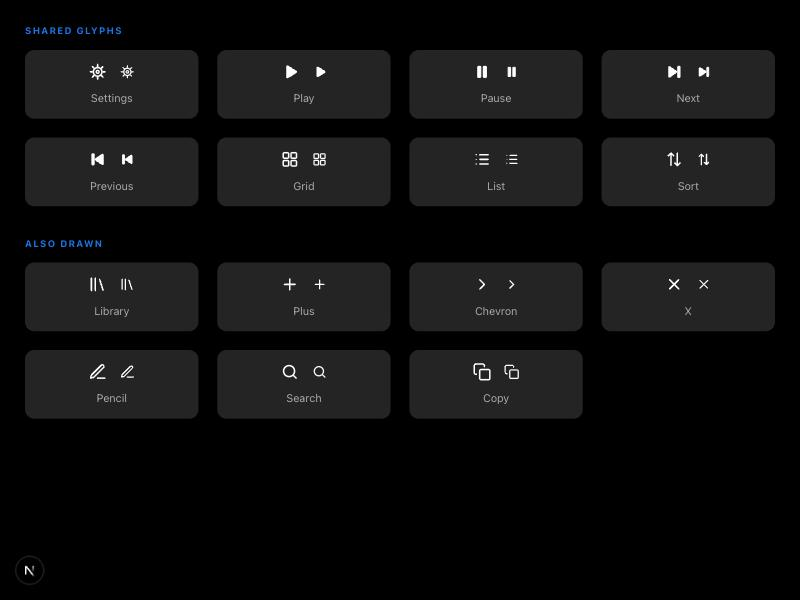
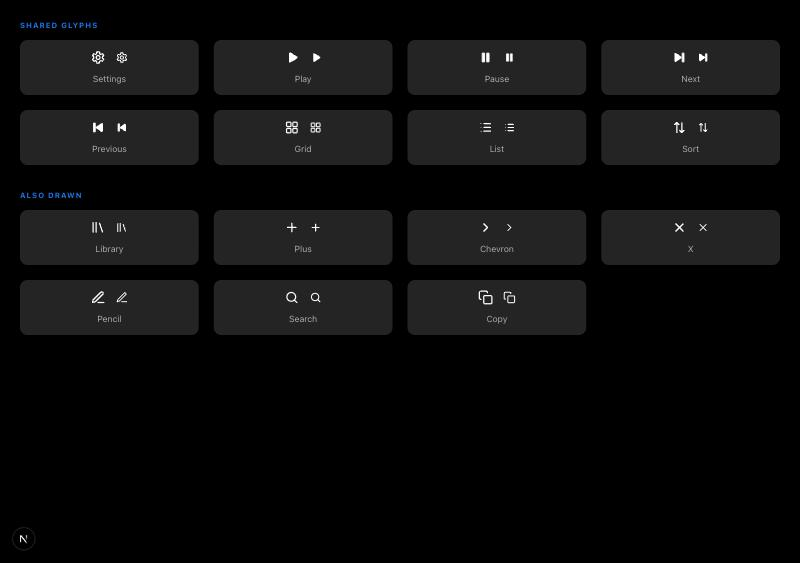
iOS + web: a toothed cog for Settings, clamp the drawn toggle glyphs, adopt the set in Stats and the share sheet (#412)
Codex round 1: the circle-and-rays gear read as a sun, so Settings is now
one toothed outline with a centre hole on both apps. The Library's drawn
toggle glyphs are clamped to the 35 pt cap instead of cap + 3. Stats' list /
grid switch and its gallery twin use Icon/List and Icon/Grid; IconTile draws
a LocallyIcon when its symbol names one, so the share sheet's Open Settings
row shows the cog. The signed-out share gallery frame gets a no-op settings
action so that row renders for screenshots.

diff --git a/apps/ios/Locally/Views/Library/LibraryView.swift b/apps/ios/Locally/Views/Library/LibraryView.swift
@@ -44,6 +44,8 @@ struct LibraryView: View {
     @ScaledMetric(relativeTo: .body) private var scaledToggleButtonSize = Theme.Library.toggleButtonSize
     @ScaledMetric(relativeTo: .subheadline) private var sectionChevronSize = Theme.Library.sectionChevronSize
     private var toggleIconSize: CGFloat { min(scaledToggleIconSize, Theme.Library.toggleIconMaxSize) }
+    /// The hand-drawn glyphs sit a little smaller in their box than SF Symbols, so they get 3 pt more, still under the 35 pt cap.
+    private var drawnToggleIconSize: CGFloat { min(toggleIconSize + 3, Theme.Library.toggleIconMaxSize) }
     private var toggleButtonSize: CGFloat { min(scaledToggleButtonSize, Theme.Library.toggleButtonMaxSize) }
     @Environment(SyncStatus.self) private var syncStatus
     /// The "From your devices" tray (#269): open or closed.
@@ -540,7 +542,7 @@ struct LibraryView: View {
             }
         } label: {
             let side = max(toggleButtonSize, Theme.Spacing.minTarget)
-            LocallyIcon(.sort, size: toggleIconSize + 3, scaled: false)
+            LocallyIcon(.sort, size: drawnToggleIconSize, scaled: false)
                 .foregroundStyle(Theme.primaryText)
                 .frame(width: side, height: side)
                 .contentShape(Rectangle())
@@ -551,7 +553,7 @@ struct LibraryView: View {
     /// The hand-drawn glyph variant (#213, #412).
     private func layoutButton(_ value: LibraryLayout, icon: LocallyIcon.Name, label: String) -> some View {
         layoutButton(value, label: label) {
-            LocallyIcon(icon, size: toggleIconSize + 3, scaled: false)
+            LocallyIcon(icon, size: drawnToggleIconSize, scaled: false)
         }
     }
 

diff --git a/apps/ios/Locally/Views/Components/ComponentGallery.swift b/apps/ios/Locally/Views/Components/ComponentGallery.swift
@@ -1132,7 +1132,7 @@ private struct ControlsGallery: View {
                     KindSwitch(kind: $single)
                     KindSwitch(kind: $album)
                     SlimSwitch(
-                        options: [(value: StatsLayout.list, icon: "list.bullet", label: Copy.Stats.listLayout), (.grid, "square.grid.2x2", Copy.Stats.gridLayout)],
+                        options: [(value: StatsLayout.list, icon: "Icon/List", label: Copy.Stats.listLayout), (.grid, "Icon/Grid", Copy.Stats.gridLayout)],
                         selection: $layout, compact: true
                     )
                     CoverSizeSlider(selection: $size)
@@ -1325,7 +1325,10 @@ enum ShareGallery {
         if result {
             model.outcome = ShareOutcome(sharedCount: 2, notOnLocally: ["new.friend@example.com"], link: "https://locally-sync-api.vercel.app/s/4f9c2b7e1a8d")
         }
-        return ShareSheet(model: model, onClose: {}).preferredColorScheme(.dark)
+        // The signed-out frame gets a no-op settings action so its "Open Settings" row renders (#412).
+        return ShareSheet(model: model, onClose: {})
+            .environment(\.openSettingsTab, signedOut ? {} : nil)
+            .preferredColorScheme(.dark)
     }
 
     @MainActor

diff --git a/apps/ios/Locally/Views/Settings/GlassSection.swift b/apps/ios/Locally/Views/Settings/GlassSection.swift
@@ -122,11 +122,22 @@ struct IconTile: View {
             ))
             .frame(width: side, height: side)
             .overlay(
-                Image(systemName: symbol)
-                    .font(.system(size: side * 0.50, weight: .semibold))
+                glyph
                     .foregroundStyle(tint)
             )
             .accessibilityHidden(true)
+    }
+
+    /// The drawn glyph when `symbol` names one (`Icon/…`), else the SF Symbol. `side` is already
+    /// scaled with text, so the drawn glyph is not scaled again.
+    @ViewBuilder
+    private var glyph: some View {
+        if let mac = LocallyIcon.Name(rawValue: symbol) {
+            LocallyIcon(mac, size: side * 0.50, scaled: false)
+        } else {
+            Image(systemName: symbol)
+                .font(.system(size: side * 0.50, weight: .semibold))
+        }
     }
 }
 

diff --git a/apps/web/src/components/Icons.tsx b/apps/web/src/components/Icons.tsx
@@ -204,13 +204,12 @@ export function LibraryIcon(props: SVGProps<SVGSVGElement>) {
   );
 }
 
-/** Settings: a drawn gear, the same drawing as the iPhone's tab (#412). */
+/** Settings: a drawn cog, a toothed outline with a centre hole, the same drawing as the iPhone's tab (#412). */
 export function SettingsIcon(props: SVGProps<SVGSVGElement>) {
   return (
     <IconBase {...props}>
-      <circle cx="12" cy="12" r="5.5" />
-      <circle cx="12" cy="12" r="1.75" />
-      <path d="M12 2.5v2.75M12 18.75v2.75M2.5 12h2.75M18.75 12h2.75M5.28 5.28l1.95 1.95M16.77 16.77l1.95 1.95M5.28 18.72l1.95-1.95M16.77 7.23l1.95-1.95" />
+      <path d="M10 3h4l.5 3 2 1 2.5-1 2 3-2 2v2l2 2-2 3-2.5-1-2 1-.5 3h-4l-.5-3-2-1-2.5 1-2-3 2-2v-2l-2-2 2-3 2.5 1 2-1Z" />
+      <circle cx="12" cy="12" r="3" />
     </IconBase>
   );
 }

diff --git a/apps/ios/Locally/Views/Stats/StatsView.swift b/apps/ios/Locally/Views/Stats/StatsView.swift
@@ -489,7 +489,7 @@ struct StatsView: View {
 
     private var layoutPill: some View {
         SlimSwitch(
-            options: [(value: StatsLayout.list, icon: "list.bullet", label: Copy.Stats.listLayout), (.grid, "square.grid.2x2", Copy.Stats.gridLayout)],
+            options: [(value: StatsLayout.list, icon: "Icon/List", label: Copy.Stats.listLayout), (.grid, "Icon/Grid", Copy.Stats.gridLayout)],
             selection: Binding(get: { model.layout }, set: { model.selectLayout($0) }),
             compact: true, overflow: .stack
         )

diff --git a/apps/ios/Locally/Views/Library/ShareSheet.swift b/apps/ios/Locally/Views/Library/ShareSheet.swift
@@ -138,7 +138,7 @@ struct ShareSheet: View {
                         onClose()
                         openSettingsTab()
                     } label: {
-                        GlassRow(symbol: "gearshape.fill", tint: Theme.Tint.slate, title: Copy.Share.openSettings, chevron: true)
+                        GlassRow(symbol: "Icon/Settings", tint: Theme.Tint.slate, title: Copy.Share.openSettings, chevron: true)
                     }
                     .buttonStyle(SoftPressStyle())
                 }

diff --git a/STATUS.md b/STATUS.md
@@ -28,7 +28,7 @@ Mac library work (#7); the Sep 27 security backlog (#12) is closed on both apps.
 - Sidebar (#154, replaces #116): a slim 64px rail is always there (the menu button at the top, then Library, Import with the fan-spin plus, a divider; at the foot Settings and the profile, a 32px circle with the email's first letter or a person glyph, which opens Settings at its account and sync section) over the library colour space; hovering or keyboard-focusing its top part, the menu button through Stats (not Settings, the profile or the empty rail between; Open on hover, on by default), blooms a glass panel out of its right edge, and a hover-opened panel hides 300 ms after the pointer leaves; the menu button opens it on click either way and a click-opened panel is sticky: it stays when the pointer leaves and closes only on a second click of the menu button, Escape (which returns focus to the button) or choosing a page, never on a click outside (with Open on hover off, hovering never opens it and leaving never closes it); choosing a page, on the rail or in the panel, closes an unpinned panel at once and keeps focus on that page's rail icon, and hovering cannot reopen it until the pointer has left the sidebar and come back; Pin down docks it as a column that slides the pane over, and a docked panel stays when a page is chosen; Pinned, Open on hover and the chosen widgets are remembered in localStorage. The panel has the Pin down and Open on hover controls at the top, rows for Library (with the release count) and Import, then a heading that follows the period ("Today", "Your week", "Your month") with Edit widgets and a Today / This week / This month control (default This week, remembered in localStorage): Top tracks, Top albums and Top artists (top three each, #1 larger with its cover) and an optional Stats shelf (three record sleeves, off by default), at least one on, and at the bottom the Settings row and the profile row ("On this Mac", the signed-in email, or Demo in the demo). The numbers are this Mac's plays in the chosen period (#203), from one local request per panel open per period, `GET /api/plays/summary` (it reads `plays.json` and the library list, and when signed in also the sync service's `GET /v1/plays/summary` for other devices, kept 60 s, backing off 10 minutes after a 429 or 404 and falling back to this Mac alone on any error (#202); the periods are the Mac's local days computed on the client in `src/lib/play-periods.ts`: Today is today, This week runs from the locale's first day of the week to today (Monday where the browser cannot say), This month from the 1st; each period's answer is reused for a minute and retried once on the next open after a failure; a showing panel reads again at local midnight, and when the window regains focus after a minute, and never shows an earlier day's plays as today's; the week follows the browser language's first day, not the macOS first-day setting), ranked on the client in `src/lib/play-stats.ts`. All time is not in the sidebar (the Stats page will have it); the summary's `allTime` only tells an empty period from no plays at all. Other devices' plays are in them when signed in (#202). A period with no plays but earlier ones says "No plays yet this week." (plays counted before #200 have no day, so they only count in all time); with no plays at all (counting off, or the demo) a quiet line points to Settings; a failed read says "Couldn't load your plays". The Stats rail icon, row and "See all stats" are on (`HAS_STATS_PAGE` in `src/components/sidebar/flags.ts`) and open the Stats page; the shelf is the shared `SleeveFan`. The old Singles and Albums lists in the sidebar are gone; the library page has them
 - Stats page (#145, `docs/design.md`, PR #192): the "Stats" view from the sidebar. Heading, digest sentence, period control (Today, This week, This month, This year, All time) with a ‹ › stepper back through weeks, months, days and (within the 400 days the Mac keeps) years, a "Counted on this Mac since …" line (the summary's new `countingSince`; "Collected across all your devices." when other devices' plays are in, since `countingSince` is only this Mac's; "Play counting is off" when it is), Tracks / Albums / Artists, a five-sleeve fan (re-balances for fewer; hover, focus, Enter, Space and click open the release, an artist opens their artist page (#288); on touch tap once to lift, twice to open), then the full ranking as a List or a Grid (the sorted sea, columns from the room, tiles at least 72px), all on this Mac's plays from one `GET /api/plays/summary` per period and step (kept 60 s). The #1 cover washes the page under a scrim that keeps text at 4.5:1 on a pale cover. Plays from other devices are in it when signed in (#202). The prototype under `components/dev/streams` is gone
 - Buttons (#155, made plain by #409): one set across the Mac app, shown at `/dev/buttons` (dev only), built to the 30 Oct design rules (no glow, shimmer or cover tint on a control). The main action (Save, Add to library, Sign in, Sync now…; one per screen, bar or card) is a solid white capsule with a black label, 44 tall, lightening on hover and dimming on press; secondary actions are plain `text-muted` words; Delete is a red word and every final confirm (Confirm delete, Delete account, Confirm revoke) is one solid red capsule (`.btn-danger`); icon-only buttons are a bare 20 px glyph in a 44 target (Share in the release bar and track rows); on/off is the sidebar's accent knob switch everywhere, Settings and the share dialog included (`KnobSwitch`). Choosers (#410) are one slim neutral switch: an `elevated` capsule, 36 tall, with an `elevated-hover` thumb (List/Grid/Artists, Single/Album, Year/Month/Day, the share expiry, Square/Original, library width, the Collections switches, the Stats period row and tabs); the Library sort is an icon button opening a glass menu with the iPhone's four options; the cover size slider is a thin track with three detents and a plain white knob, and the grid defaults to Large. Checked in a browser on the dev sheet, Import, Settings and the release bar (demo); Electron and VoiceOver not yet seen
-- Shared icon set (#412): settings (a drawn gear), play, pause, next, previous, grid, list and sort are one drawing on both apps (`Icons.tsx`, iPhone `Icon/` assets); the iPhone's Settings tab, Library layout toggle and sort use them; shown at `/dev/icons` and in the gallery's `icons-set` frame. The players adopt the transport glyphs in #413/#414
+- Shared icon set (#412): settings (a drawn cog), play, pause, next, previous, grid, list and sort are one drawing on both apps (`Icons.tsx`, iPhone `Icon/` assets); the iPhone's Settings tab, Library layout toggle and sort use them; Stats' layout switch and the share sheet's Settings row too; shown at `/dev/icons` and in the gallery's `icons-set` frame. The players adopt the transport glyphs in #413/#414
 - Library search and sort (#7): a toolbar under "All music" filters by title, artist, genre, year, or track title (case- and accent-insensitive, every word must match; ⌘F focuses, Escape clears) and sorts by Recently updated, Title, Artist, or Year; both survive opening a release
 - Library bulk actions (#7): Select on the library toolbar swaps in a selection bar; checked rows can be edited together (Artist, Year, Genre, blank leaves unchanged, tracks re-tagged in place) or deleted after an inline confirm. Both run per release through the existing endpoints and report partial failures by title in the toast
 - Artist suggestions (#287 PR A, step 2 of `docs/plans/224-artist-list.md`): the Artist field on the release page, the import record and bulk edit is a combobox over every artist in the library (`ArtistCombobox`, index built once per library load in `AppShell` from `src/lib/artist-index.ts`): a glass list of up to 5 names matching the start of any word, with their track counts, arrow keys, Enter, Tab and Escape (inside bulk edit's dialog Escape closes the list first), keys left alone during IME composition; after a 600 ms pause or on blur a "Did you mean" line offers the library's spelling ("Matches The Weeknd. Use that spelling?") or a look-alike ("You have 12 tracks by The Weeknd."), under the field or as a footer inside an open list, never blocking a save. Adopted releases and the demo get none. Checked in a browser; Electron and VoiceOver not yet seen

diff --git a/docs/design.md b/docs/design.md
@@ -117,9 +117,9 @@ The web app uses the main icon for `icon.png` and `apple-icon.png`.
 The shared hand-drawn set on both platforms (#213; iPhone template images `Icon/…`,
 `LocallyIcon`; the Mac's `Icons.tsx`, shown at `/dev/icons` and in the iPhone gallery's `icons-set`
 frame) is Library, Import (a plain plus), Stats, Person, chevron, X, pencil, search and copy,
-accent when selected, and since #412 (30 Oct 2026) Settings (a drawn gear on both apps: it replaced
+accent when selected, and since #412 (30 Oct 2026) Settings (a drawn cog, a toothed outline with a centre hole, on both apps: it replaced
 the Mac's sliders and the iPhone's `gearshape`), play, pause, next, previous, grid, list (the
-Library's layout toggle on both) and sort (the Library's sort button on both); the mini player and
+Library's layout toggle on both) and sort (the Library's sort button on both); Stats' list / grid switch and the share sheet's Settings row use the drawn glyphs too; the mini player and
 the record player adopt the transport glyphs in #413 and #414. The owner kept SF Symbols for the
 note on file rows and the Tracks and Single options, Add cover art (`photo.badge.plus`), trash,
 checkmarks, seals, folder, iphone, photo, `rectangle.stack.fill`, `paperplane.fill` and system
